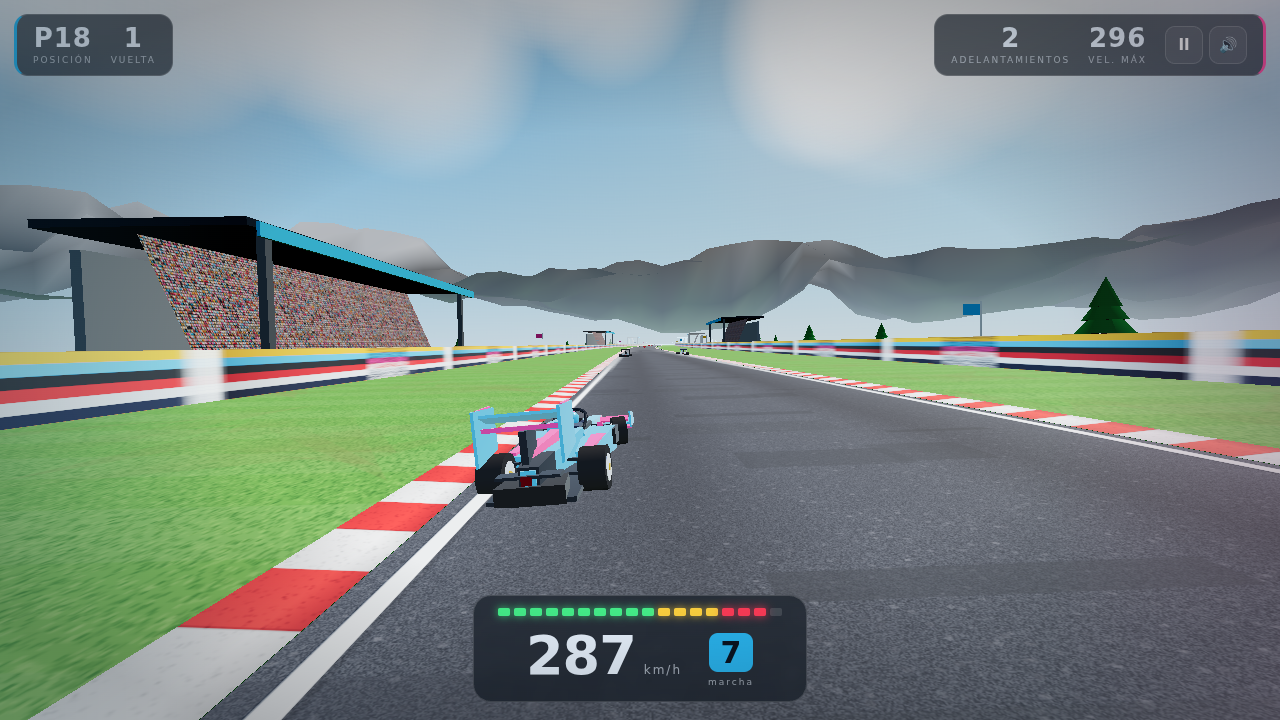
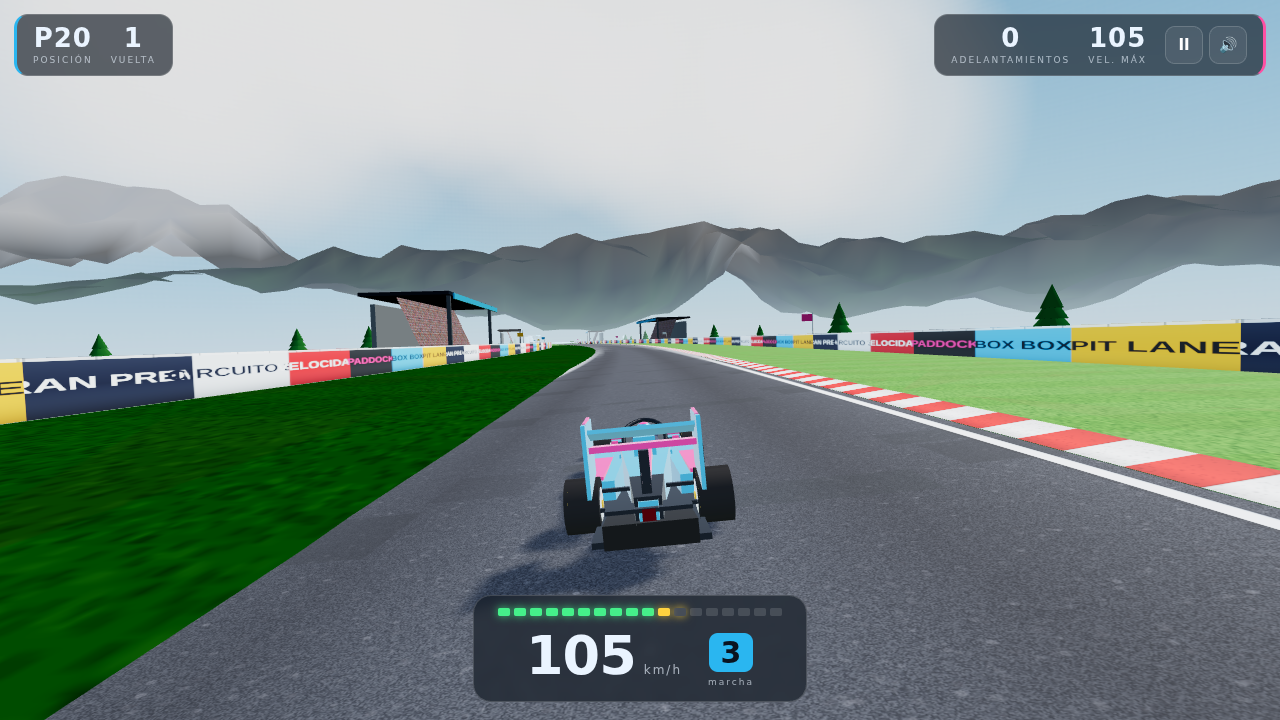
Arreglar los controles invertidos y el mapeo de las vallas
La cámara mira hacia +Z, así que su derecha es el -X del mundo: el marco
local estaba espejado y doblar a la derecha movía el auto hacia la
izquierda de la pantalla. Ahora Track.toLocal invierte el eje X (y con él
el rumbo), y acompañan el auto, la cámara, las partículas, el balanceo del
peralte, la orientación de las tribunas y el giro del panorama.

De paso, los carteles de las vallas estaban mapeados girados 90 grados:
ahora el dibujo corre a lo largo de la pista y la valla izquierda usa una
copia espejada de la textura para que se lea desde su cara.

Claude-Session: https://claude.ai/code/session_01NfDp5uRkc1EF4hamA5Nb1z

diff --git a/js/track.js b/js/track.js
@@ -75,7 +75,10 @@ window.Track = (function () {
   }
 
   var _o = { x: 0, z: 0, yaw: 0 };
-  /* Convierte (metro de pista, desplazamiento lateral) a coordenadas locales. */
+  /* Convierte (metro de pista, desplazamiento lateral) a coordenadas de
+     pantalla. La camara mira hacia +Z, asi que su derecha es el -X del
+     mundo: por eso se invierte el eje X (y con el, el rumbo). Sin esa
+     inversion, doblar a la derecha movia el auto hacia la izquierda. */
   function toLocal(worldZ, lateral, out) {
     out = out || _o;
     var s = slopeAt(worldZ);
@@ -83,11 +86,14 @@ window.Track = (function () {
     var wx = curveX(worldZ) + lateral * inv;
     var wz = worldZ - lateral * s * inv;
     var dx = wx - x0, dz = wz - dist;
-    out.x = dx * cosH - dz * sinH;
+    out.x = -(dx * cosH - dz * sinH);
     out.z = dx * sinH + dz * cosH;
-    out.yaw = Math.atan(s) - h0;
+    out.yaw = -(Math.atan(s) - h0);
     return out;
   }
+
+  /* Posicion en pantalla de un desplazamiento lateral (derecha = positivo). */
+  function screenX(lateral) { return -lateral; }
 
   // ---- cintas -------------------------------------------------------------
   function Ribbon(opt) {
@@ -108,9 +114,15 @@ window.Track = (function () {
       var o = i * 2;
       idx.push(o, o + 2, o + 1, o + 1, o + 2, o + 3);
     }
+    this.swapUV = !!opt.swapUV;   // carteles: el dibujo corre a lo largo, no a lo alto
     for (var j = 0; j < n; j++) {
-      uvs[j * 4 + 0] = 0; uvs[j * 4 + 1] = 0;
-      uvs[j * 4 + 2] = this.uRep; uvs[j * 4 + 3] = 0;
+      if (this.swapUV) {
+        uvs[j * 4 + 0] = 0; uvs[j * 4 + 1] = 0;
+        uvs[j * 4 + 2] = 0; uvs[j * 4 + 3] = this.uRep;
+      } else {
+        uvs[j * 4 + 0] = 0; uvs[j * 4 + 1] = 0;
+        uvs[j * 4 + 2] = this.uRep; uvs[j * 4 + 3] = 0;
+      }
     }
     geo.setAttribute('position', new THREE.BufferAttribute(this.pos, 3));
     this.uvAttr = new THREE.BufferAttribute(uvs, 2);
@@ -153,7 +165,8 @@ window.Track = (function () {
       p[o] = _pa.x; p[o + 1] = this.ya + bank; p[o + 2] = _pa.z;
       p[o + 3] = _pb.x; p[o + 4] = this.yb + bankB; p[o + 5] = _pb.z;
       var v = wz / this.uv;
-      uv[i * 4 + 1] = v; uv[i * 4 + 3] = v;
+      if (this.swapUV) { uv[i * 4] = v; uv[i * 4 + 2] = v; }
+      else { uv[i * 4 + 1] = v; uv[i * 4 + 3] = v; }
     }
     this.geo.attributes.position.needsUpdate = true;
     this.uvAttr.needsUpdate = true;
@@ -299,8 +312,21 @@ window.Track = (function () {
     }));
 
     var wallTex = GFX.wall();
-    add(new Ribbon({ offsetA: -WALL_X, offsetB: -WALL_X, yA: 0, yB: 2.6, map: wallTex, uvScale: 30, uRepeat: 1, roughness: 0.7, receiveShadow: false }));
-    add(new Ribbon({ offsetA: WALL_X, offsetB: WALL_X, yA: 0, yB: 2.6, map: wallTex, uvScale: 30, uRepeat: 1, roughness: 0.7, receiveShadow: false }));
+    /* La valla de la izquierda se ve desde la cara opuesta: con la misma
+       textura los carteles saldrian al reves, asi que usa una copia
+       espejada. */
+    var wallTexFlip = wallTex.clone();
+    wallTexFlip.needsUpdate = true;
+    wallTexFlip.wrapS = wallTexFlip.wrapT = THREE.RepeatWrapping;
+    wallTexFlip.repeat.set(-1, 1);
+    add(new Ribbon({
+      offsetA: -WALL_X, offsetB: -WALL_X, yA: 0, yB: 2.6, map: wallTex,
+      uvScale: 52, uRepeat: 1, swapUV: true, roughness: 0.7, receiveShadow: false
+    }));
+    add(new Ribbon({
+      offsetA: WALL_X, offsetB: WALL_X, yA: 0, yB: 2.6, map: wallTexFlip,
+      uvScale: 52, uRepeat: 1, swapUV: true, roughness: 0.7, receiveShadow: false
+    }));
 
     // props reciclables
     var props = [];
@@ -316,7 +342,7 @@ window.Track = (function () {
     for (var i = 0; i < 8; i++) {
       var s = standProto.clone();
       var right = (i % 2 === 0);
-      prop(s, i * STAND_GAP, right ? WALL_X + 30 : -(WALL_X + 30), STAND_GAP * 8, right ? -Math.PI / 2 : Math.PI / 2);
+      prop(s, i * STAND_GAP, right ? WALL_X + 30 : -(WALL_X + 30), STAND_GAP * 8, right ? Math.PI / 2 : -Math.PI / 2);
     }
 
     var treeProto = buildTree();
@@ -354,6 +380,7 @@ window.Track = (function () {
       curvatureAt: curvatureAt,
       bankAt: bankAt,
       surfaceY: surfaceY,
+      screenX: screenX,
       setPlayer: setPlayer,
       toLocal: toLocal,
       heading: function () { return h0; },

diff --git a/js/game.js b/js/game.js
@@ -384,23 +384,23 @@
         r.targetLat = r.lat;
         S.shake = 0.6;
         buzz([25, 30, 25]);
-        fx.burst(S.lat + dx * 0.5, 2.2, 10);
+        fx.burst(track.screenX(S.lat + dx * 0.5), 2.2, 10);
         message('¡CONTACTO!', 0.9);
       }
 
       track.toLocal(r.z, r.lat, tmp);
       r.car.root.position.set(tmp.x, track.surfaceY(r.lat, r.z), tmp.z);
       r.car.root.rotation.y = tmp.yaw;
-      r.car.root.rotation.z = Math.atan(track.bankAt(r.z));
+      r.car.root.rotation.z = -Math.atan(track.bankAt(r.z));
       r.car.root.visible = rel > -60 && rel < track.VIEW + 80;
       var spin = r.speed * dt / 0.36;
       for (var w = 0; w < r.car.wheels.length; w++) r.car.wheels[w].userData.spin.rotation.x += spin;
     }
 
     // ---- auto del jugador
-    player.root.position.set(S.lat, track.surfaceY(S.lat, S.dist), 0);
+    player.root.position.set(track.screenX(S.lat), track.surfaceY(S.lat, S.dist), 0);
     player.root.rotation.y = -Math.atan2(S.latVel, Math.max(12, S.speed)) * 0.85;
-    player.root.rotation.z = Math.atan(bank);
+    player.root.rotation.z = -Math.atan(bank);
     player.body.rotation.z = -S.steer * 0.035 - S.latVel * 0.004;
     player.body.rotation.x = (S.brake * 0.02 - S.throttle * 0.012) +
       ((S.offTrack || S.onKerb) ? Math.sin(S.time * 34) * 0.012 : 0);
@@ -409,19 +409,20 @@
 
     var pSpin = S.speed * dt / 0.36;
     for (var pw = 0; pw < player.wheels.length; pw++) player.wheels[pw].userData.spin.rotation.x += pSpin;
-    player.steered[0].rotation.y = S.steer * 0.30;
-    player.steered[1].rotation.y = S.steer * 0.30;
+    player.steered[0].rotation.y = -S.steer * 0.30;
+    player.steered[1].rotation.y = -S.steer * 0.30;
     if (player.brakeLight) {
       player.brakeLight.material.color.setHex(S.brake > 0.15 ? 0xff3b3b : 0x5c1418);
     }
 
     // ---- particulas
+    var carX = track.screenX(S.lat);
     if (S.offTrack && S.speed > 8) {
-      fx.dust(S.lat - 0.9, -1.6);
-      fx.dust(S.lat + 0.9, -1.6);
+      fx.dust(carX - 0.9, -1.6);
+      fx.dust(carX + 0.9, -1.6);
     } else if (S.brake > 0.5 && S.speed > 30) {
-      fx.smoke(S.lat - 0.9, -1.6);
-      fx.smoke(S.lat + 0.9, -1.6);
+      fx.smoke(carX - 0.9, -1.6);
+      fx.smoke(carX + 0.9, -1.6);
     }
     fx.update(dt, S.speed);
 
@@ -430,14 +431,14 @@
     var speedN = S.speed / MAX_SPEED;
     var shakeAmt = S.shake * 0.25 + (S.offTrack ? 0.05 : 0) +
       (S.onKerb ? 0.03 : 0) + speedN * 0.012;
-    var camX = S.lat * 0.82 + S.steer * 0.5;
+    var camX = track.screenX(S.lat * 0.82) - S.steer * 0.5;
     camera.position.x += (camX - camera.position.x) * Math.min(1, dt * 5);
     camera.position.y = 2.55 + track.surfaceY(S.lat, S.dist) + Math.sin(S.time * 30) * shakeAmt;
     camera.position.z = -8.6 - speedN * 1.2;
     camera.fov = 62 + speedN * 16;
     camera.updateProjectionMatrix();
-    camera.lookAt(S.lat * 0.45 + S.steer * 1.2, 1.25, 26);
-    camera.rotation.z += bank * 0.5 - S.steer * 0.012 + Math.sin(S.time * 22) * shakeAmt * 0.02;
+    camera.lookAt(track.screenX(S.lat * 0.45) - S.steer * 1.2, 1.25, 26);
+    camera.rotation.z += -bank * 0.5 + S.steer * 0.012 + Math.sin(S.time * 22) * shakeAmt * 0.02;
 
     sky.update(track.heading(), camera.position.x, camera.position.z);
 

diff --git a/js/sky.js b/js/sky.js
@@ -74,7 +74,7 @@ window.Sky = (function () {
       ground: ground,
       sun: sun,
       update: function (heading, camX, camZ) {
-        group.rotation.y = -heading;
+        group.rotation.y = heading;   // el marco local esta espejado en X
         group.position.set(camX, 0, camZ);
         ground.position.x = camX;
         ground.position.z = camZ;
